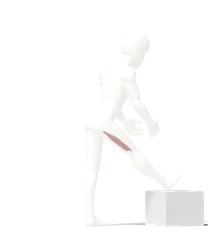
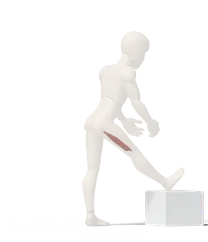
Cool-down list clips re-rendered with the grey-beige translucent skin and Kisner poses to match the 3D detail (v164)

diff --git a/sw.js b/sw.js
@@ -1,5 +1,5 @@
 // 오프라인에서도 열리도록 앱 파일 저장 (파일을 고치면 VERSION을 올리기)
-const VERSION = 'v163';
+const VERSION = 'v164';
 const FILES = ['./', 'index.html', 'app.js', 'gait.js', 'video.js', 'manifest.webmanifest', 'icon.svg', 'icon-192.png', 'icon-512.png', 'icon-maskable-512.png', 'privacy.html', 'location-terms.html',
   ...['side', 'front', 'back'].flatMap(v => ['pelvis', 'femur', 'shank', 'foot'].map(p => `assets/bones/${v}-${p}.webp`)),
   ...Array.from({ length: 50 }, (_, i) => `assets/muscle/m${String(i).padStart(2, '0')}.webp`)];   // 걸음 수업 근육 그림 50장(약 640KB)도 오프라인에서   // 걸음걸이 탭 뼈 그림 12장(약 39KB)도 오프라인에서 보이게

diff --git a/app.js b/app.js
@@ -850,7 +850,7 @@ function openFeedback() {
 $('fbBtn').addEventListener('click', openFeedback);
 
 // ── 처음 시작할 때 동의 ──
-const APP_VERSION = 'v163';
+const APP_VERSION = 'v164';
 let consent = store.get('consent', null);
 function showConsent() {
   document.body.classList.add('needConsent');
